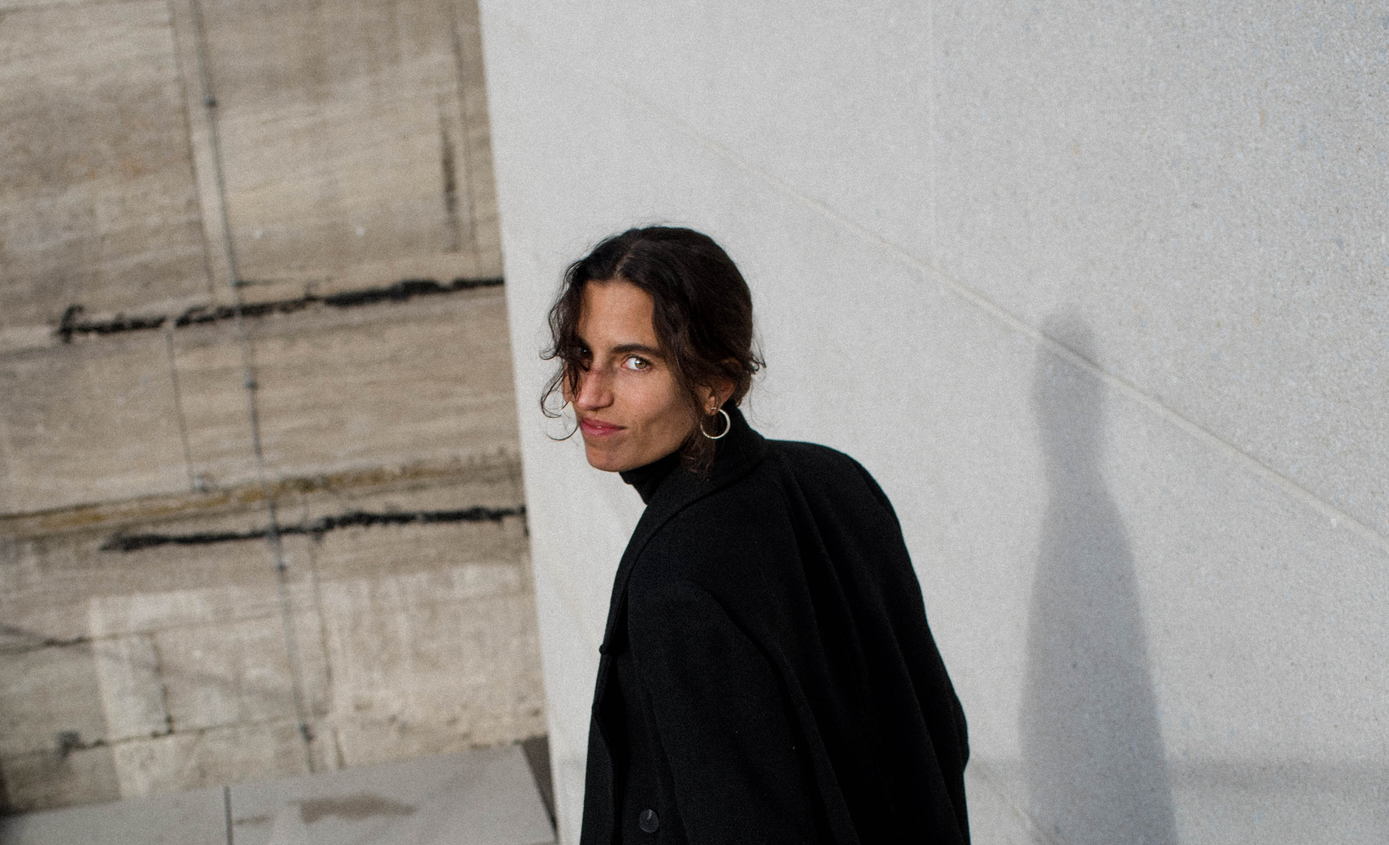
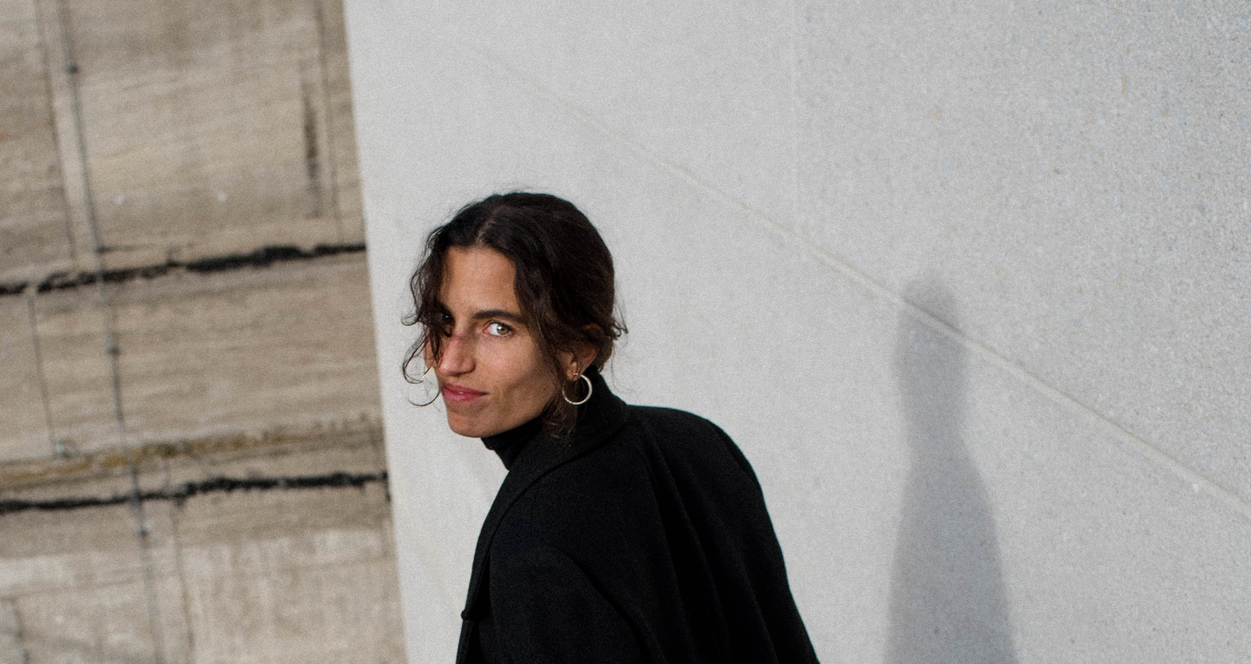
added new pics

diff --git a/about.html b/about.html
@@ -15,7 +15,7 @@
       <a href="news.html" class="navbar__links">News</a>
       <a href="projects.html" class="navbar__links">Projects</a>
     </div>
-    <div class="dates-img" id="em1"><img src="./images/Oggy_crop2.jpeg"  alt="Ogazón" loading="Ogazón_Photography"></div>
+    <div class="dates-img" id="em1" style="object-fit: cover; object-position: 100% 0;"><img src="./images/Oggy_crop2.jpeg"  alt="Ogazón" loading="Ogazón_Photography"></div>
         <h1 style="padding-bottom: 0px; padding-top: 70px;"> OGAZÓN</h1>
 
         <div>

diff --git a/styles.css b/styles.css
@@ -96,7 +96,6 @@ h2{
   color: black;
 }
 
-
 a:hover[href="about.html"] {
   /* link to specific website */
   color: white;
@@ -194,7 +193,6 @@ a:active {
     max-height: 100%;
     min-width: 100%;
     object-fit: cover;
-    vertical-align: bottom;
   }
 
   li:last-child {
